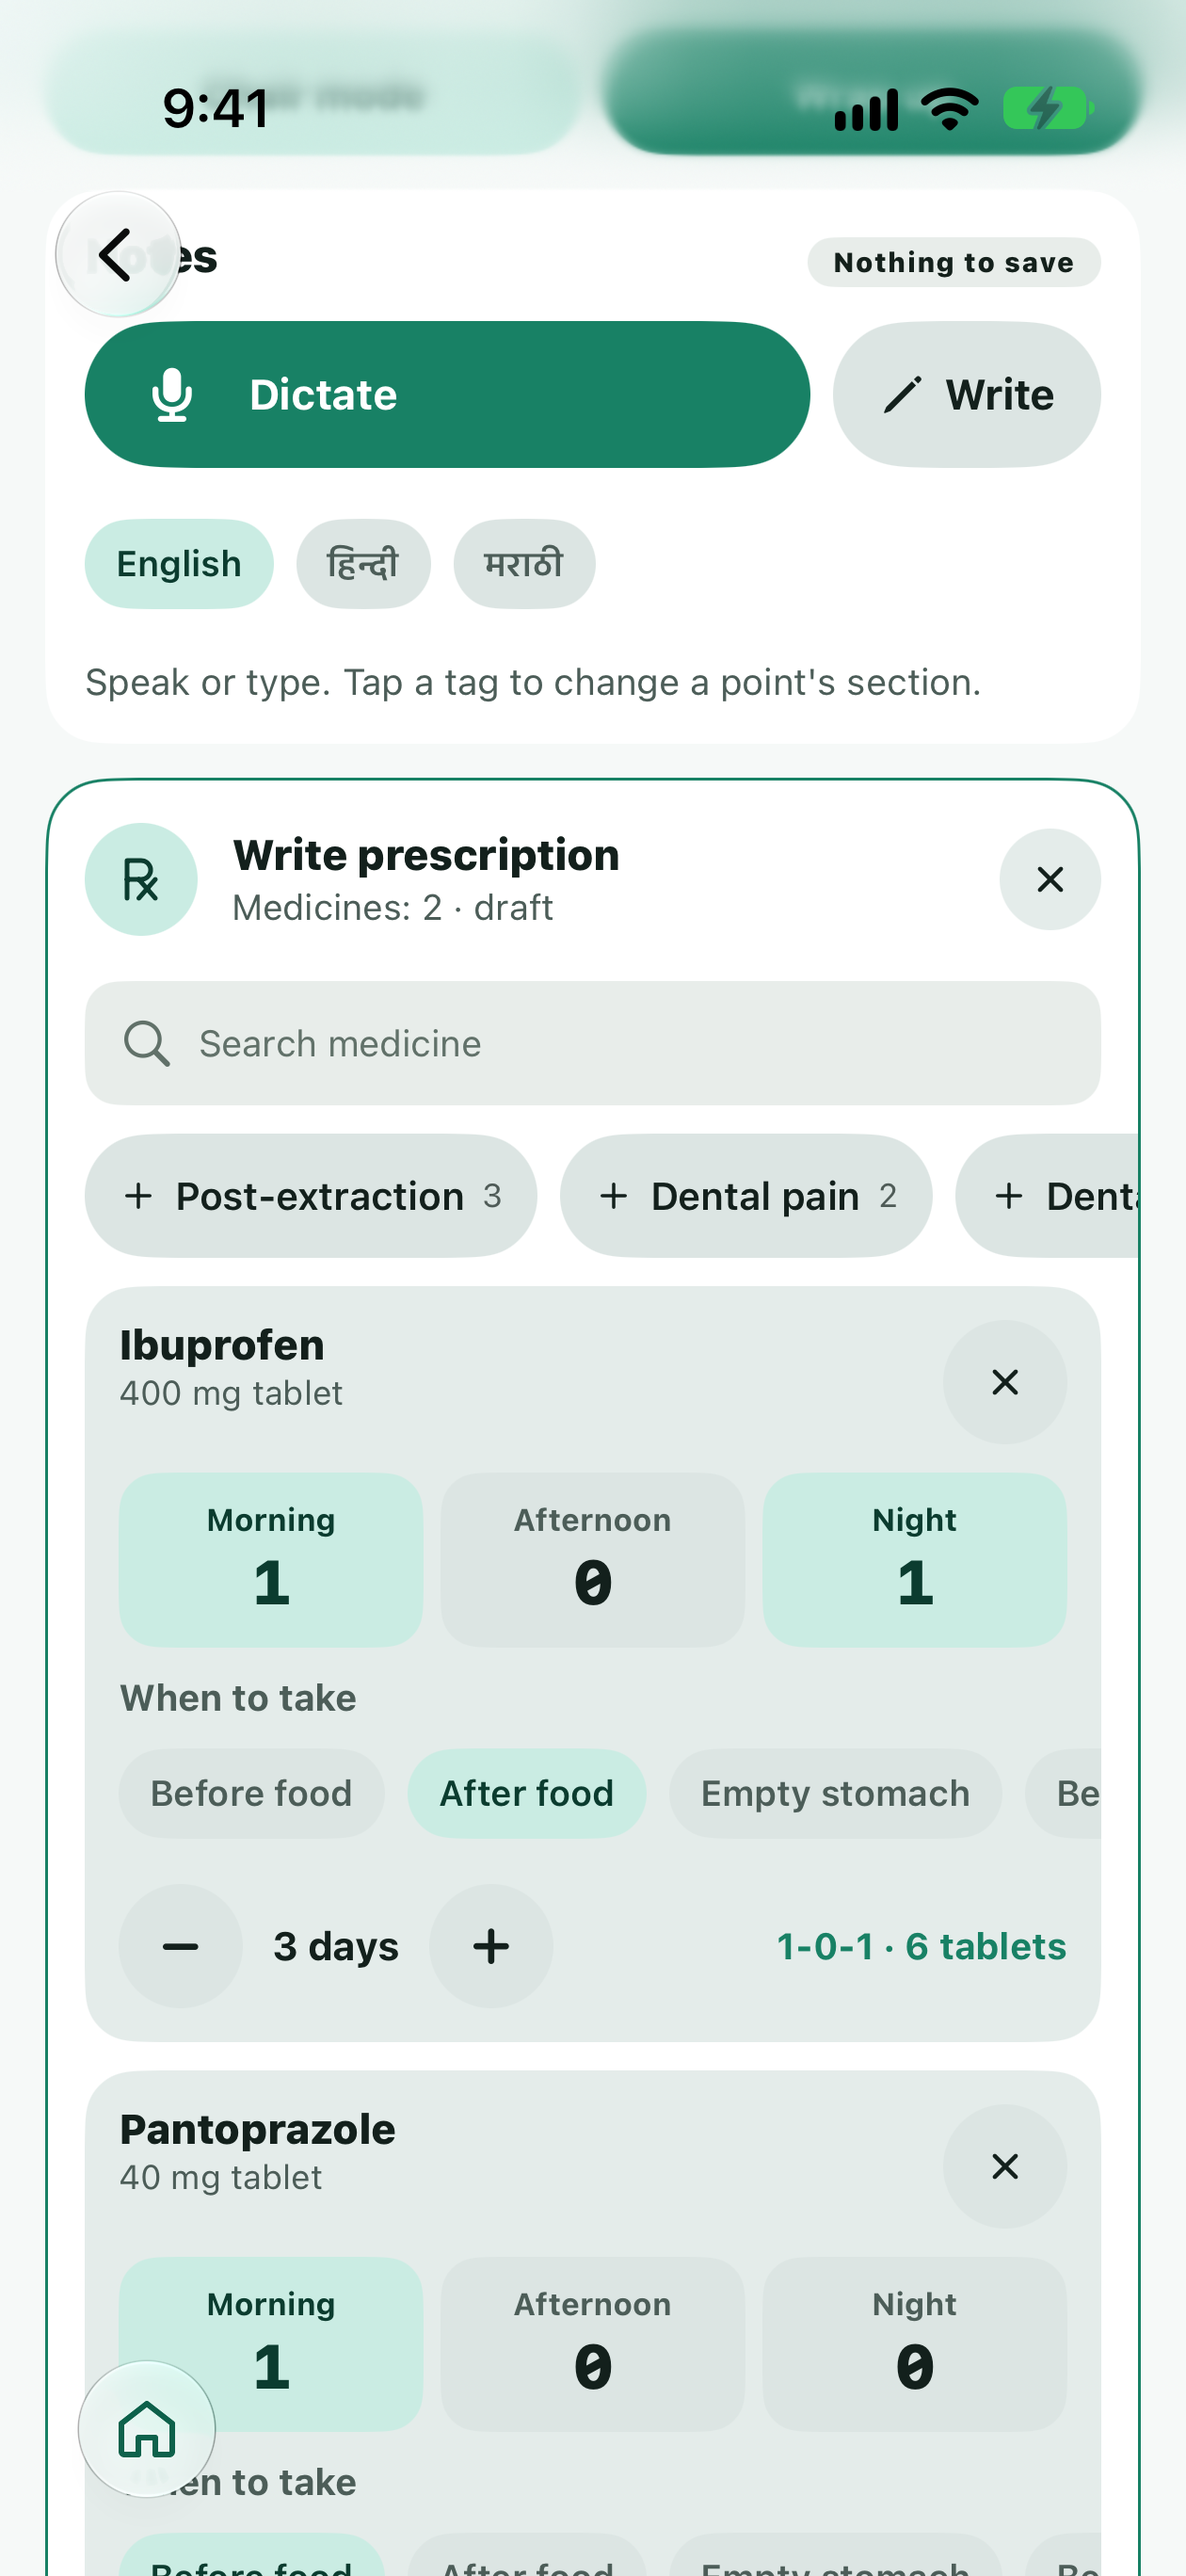
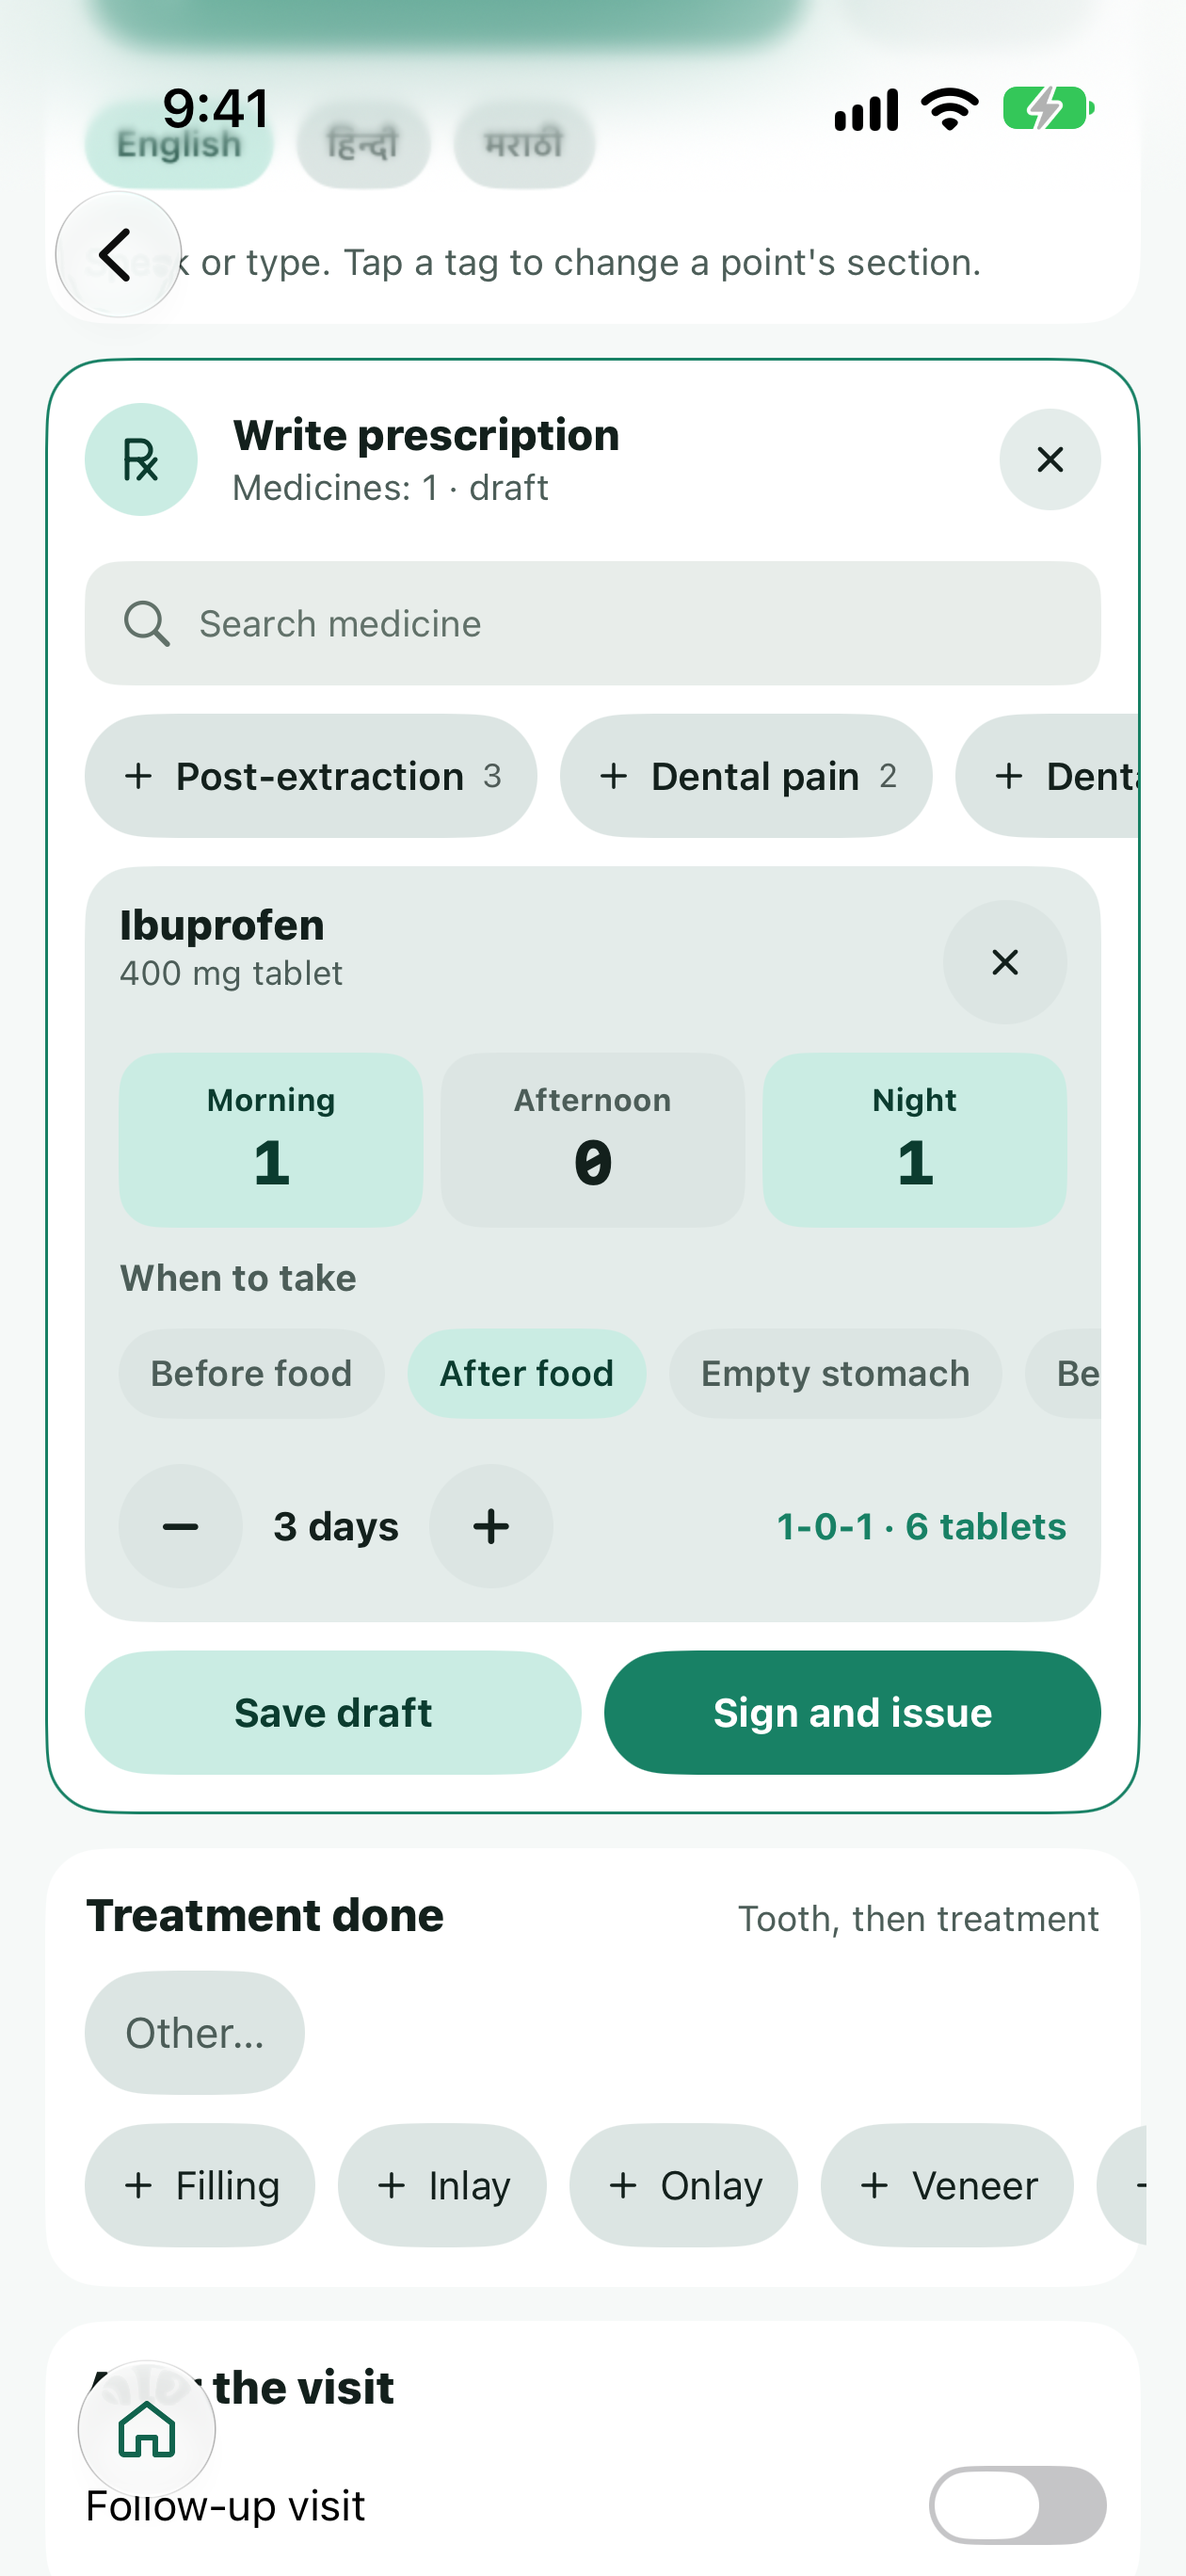
fix(ios): retake the visit and Rx store shot with the prescription card whole
The test removes the second medicine and parks the Rx header under the top bar, so the dose grid and Save/Sign buttons show in full.

diff --git a/mobile/iosApp/AarogyamStaffE2E/StoreScreensTests.swift b/mobile/iosApp/AarogyamStaffE2E/StoreScreensTests.swift
@@ -49,17 +49,19 @@ final class StoreScreensTests: XCTestCase {
         _ = wait(app.buttons["Wrap up this visit"], timeout: 20)
         scrolledTo(app.buttons["Write prescription"]).tap()
         scrolledTo(wait(app.buttons["Add set Dental pain, 2 medicines"], timeout: 15)).tap()
-        let first = scrolledTo(wait(app.buttons["Remove Ibuprofen"]))
-        // Park the prescription header near the top and both medicines on screen.
-        let screenHeight = app.windows.firstMatch.frame.height
+        // One medicine keeps the dose grid whole on screen; then park the prescription header just under the top bar.
+        scrolledTo(wait(app.buttons["Remove Pantoprazole"])).tap()
+        let header = app.descendants(matching: .any).matching(NSPredicate(format: "label BEGINSWITH %@", "Write prescription")).firstMatch
+        wait(header)
+        let height = app.windows.firstMatch.frame.height
         for _ in 0..<12 {
-            let y = first.frame.minY
-            if y < screenHeight * 0.42 {
-                app.coordinate(withNormalizedOffset: CGVector(dx: 0.5, dy: 0.35)).press(forDuration: 0.05, thenDragTo: app.coordinate(withNormalizedOffset: CGVector(dx: 0.5, dy: 0.5)))
-            } else if y > screenHeight * 0.54 {
-                app.coordinate(withNormalizedOffset: CGVector(dx: 0.5, dy: 0.55)).press(forDuration: 0.05, thenDragTo: app.coordinate(withNormalizedOffset: CGVector(dx: 0.5, dy: 0.4)))
-            } else { break }
-            usleep(600_000)
+            let delta = header.frame.minY - height * 0.15
+            if abs(delta) < height * 0.03 { break }
+            let step = max(-0.3, min(0.3, delta / height))
+            let from = app.coordinate(withNormalizedOffset: CGVector(dx: 0.5, dy: 0.6))
+            let to = app.coordinate(withNormalizedOffset: CGVector(dx: 0.5, dy: 0.6 - step))
+            from.press(forDuration: 0.05, thenDragTo: to, withVelocity: .slow, thenHoldForDuration: 0.4)
+            usleep(500_000)
         }
         sleep(1)
         shot("2-visit-rx")
